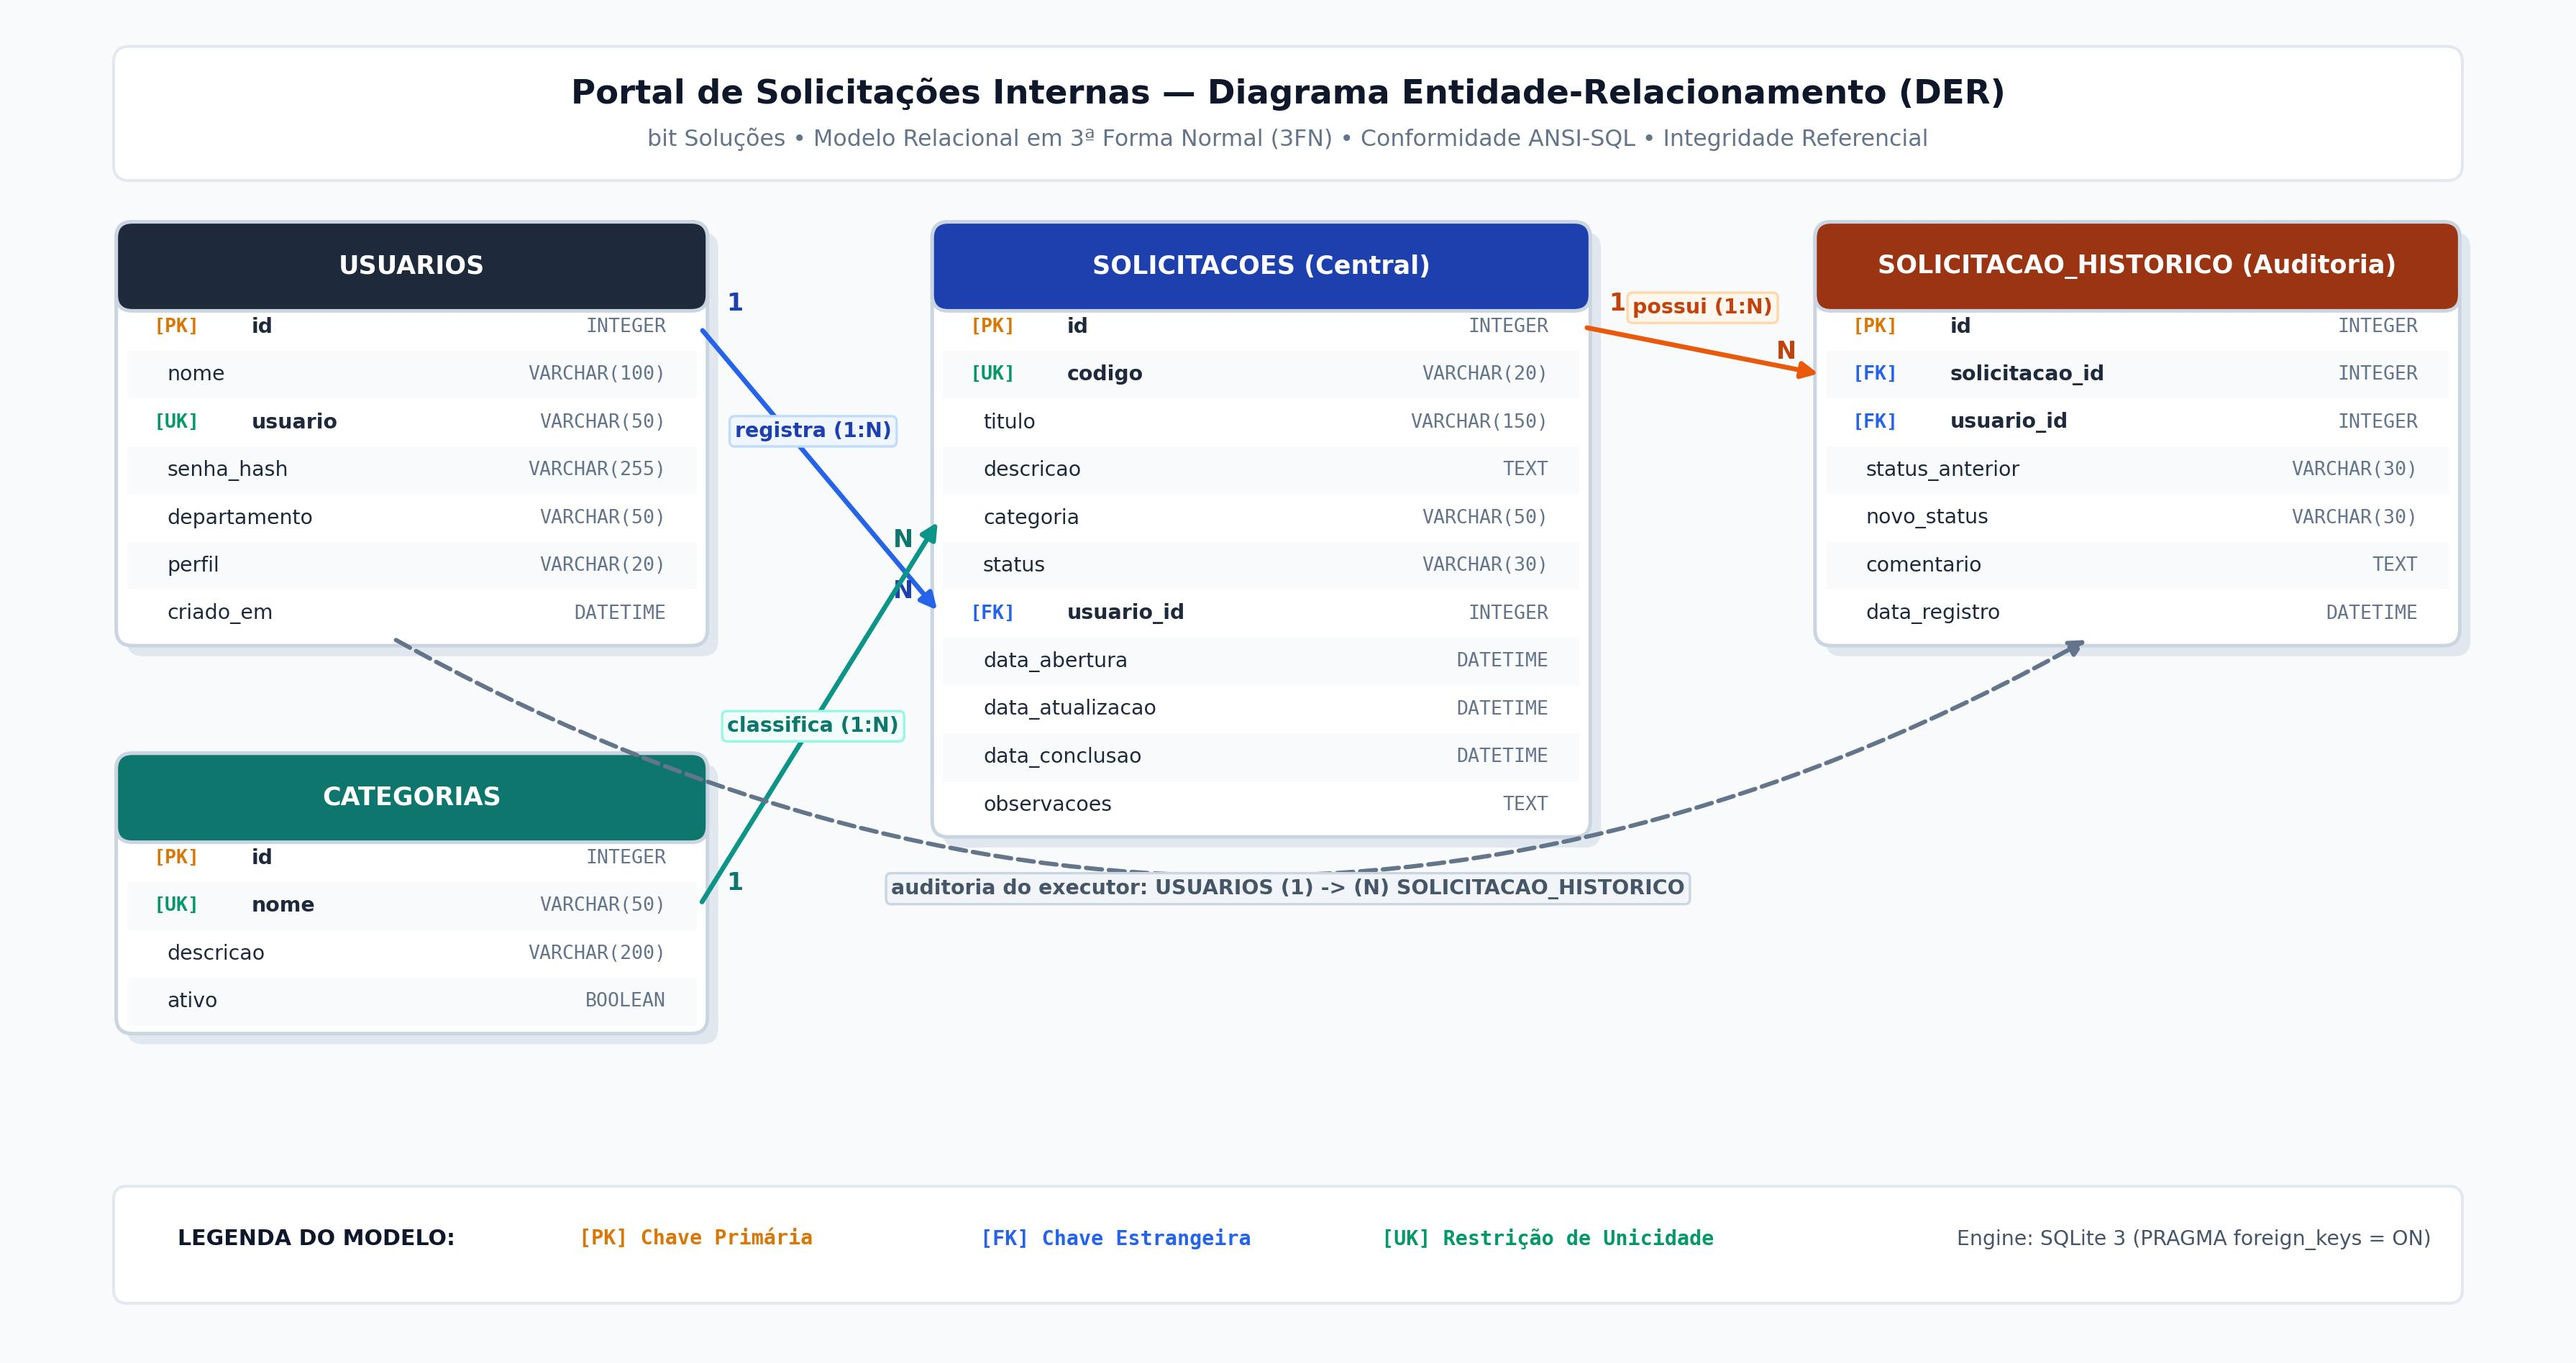
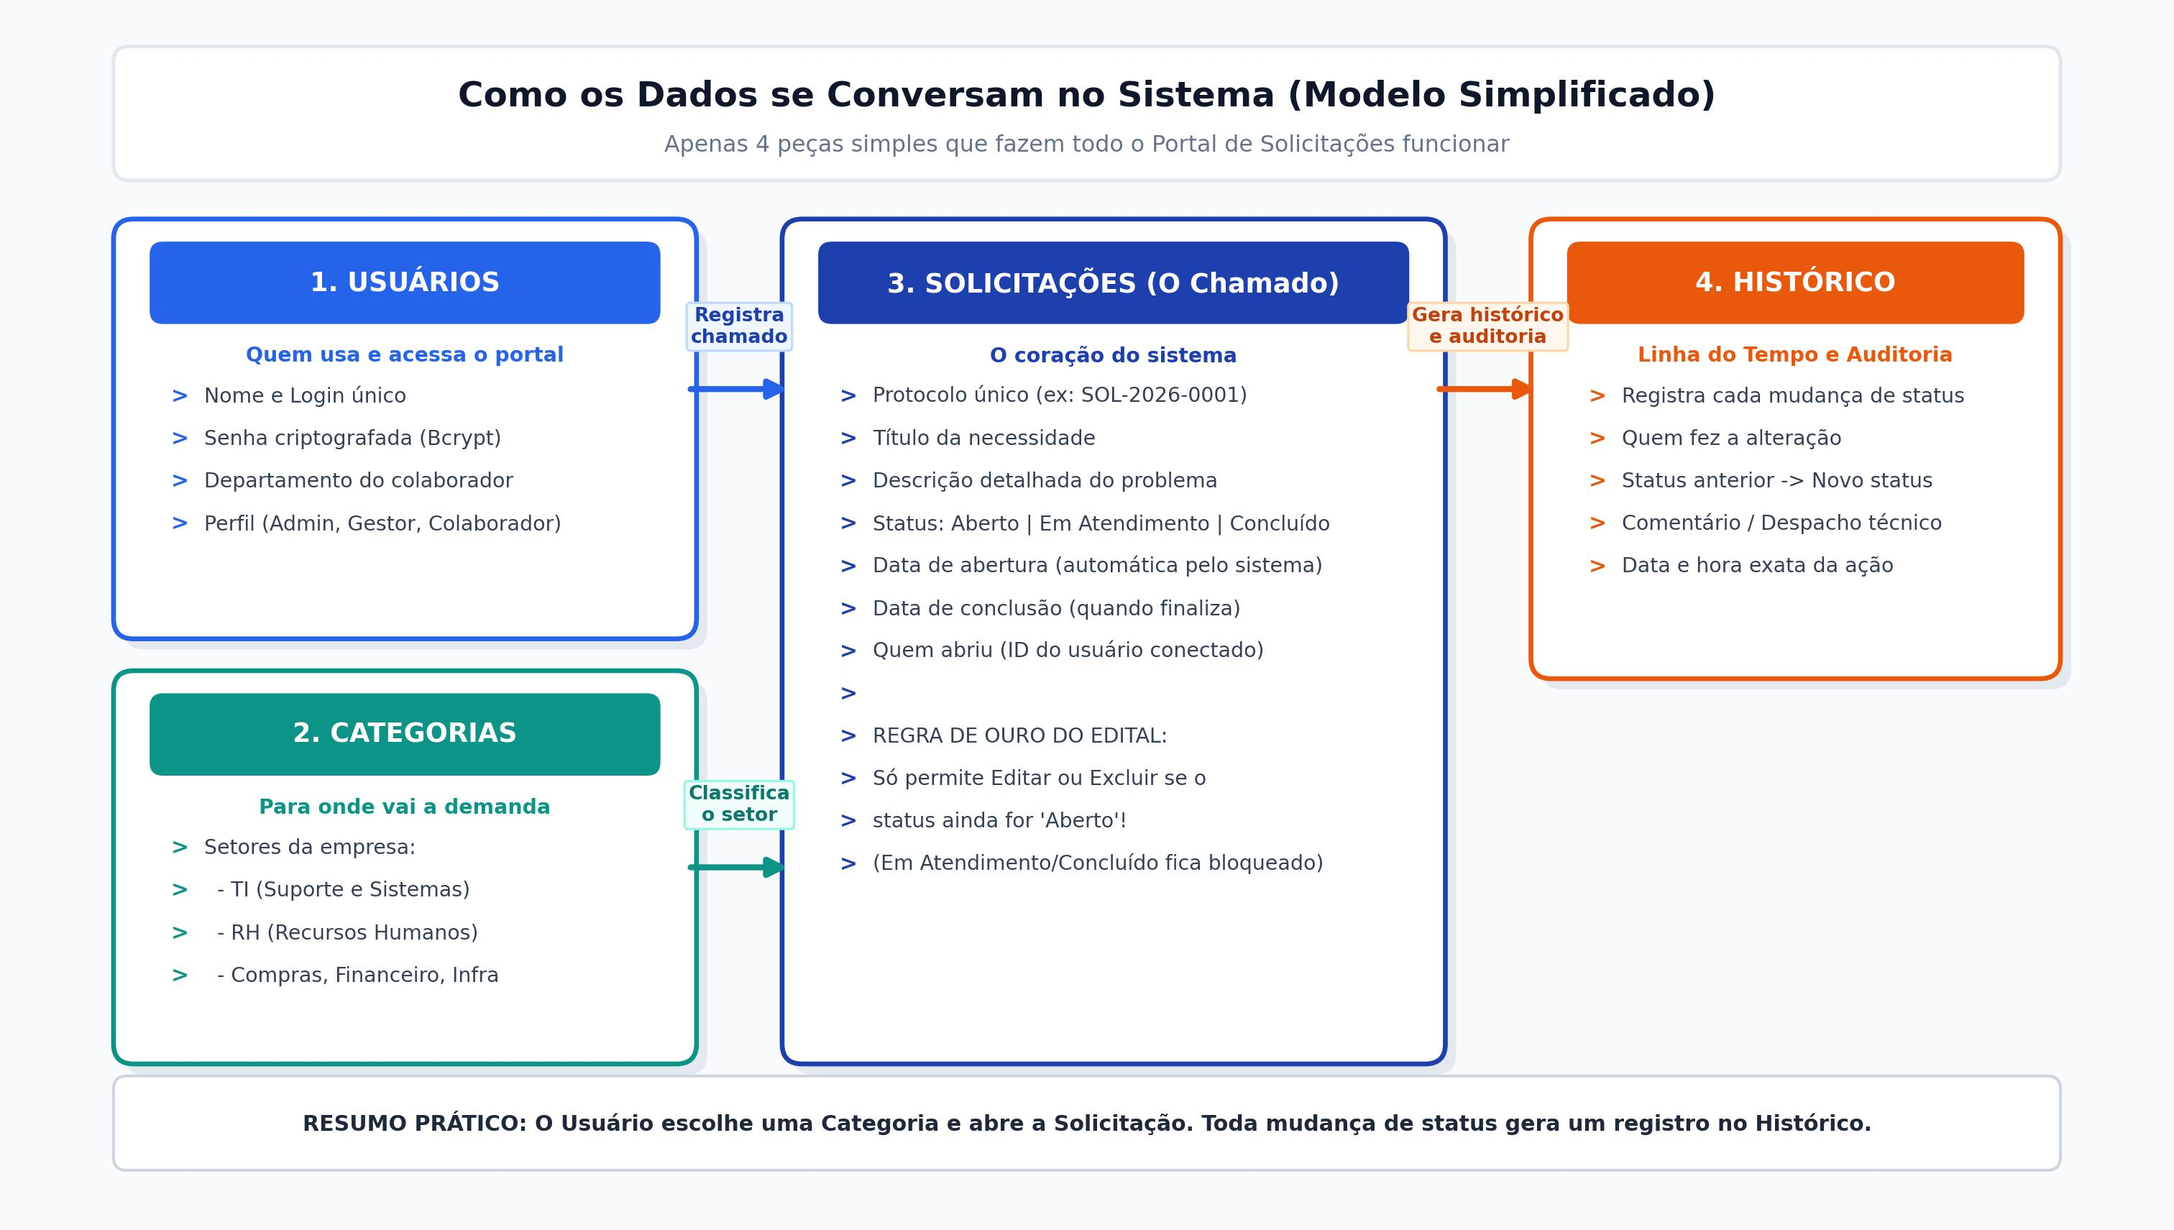
docs: use ultra-clear and human-friendly database relationship diagram

Changed region(s): [[0.0311, 0.1549, 0.9636, 0.8054], [0.0311, 0.8364, 0.9636, 0.9293], [0.2176, 0.031, 0.8082, 0.1239]]

diff --git a/docs/generate_simple_diagram.py b/docs/generate_simple_diagram.py
@@ -1,0 +1,166 @@
+import matplotlib.pyplot as plt
+import matplotlib.patches as patches
+
+def main():
+    fig, ax = plt.subplots(figsize=(16, 9), dpi=240)
+    ax.set_facecolor('#F8FAFC')
+    fig.patch.set_facecolor('#F8FAFC')
+    ax.set_xlim(0, 16)
+    ax.set_ylim(0, 9)
+    ax.axis('off')
+
+    # Top Header
+    header_box = patches.FancyBboxPatch(
+        (0.8, 7.85), 14.4, 0.85,
+        boxstyle="round,pad=0.08,rounding_size=0.12",
+        edgecolor='#E2E8F0', facecolor='#FFFFFF', linewidth=1.5, zorder=2
+    )
+    ax.add_patch(header_box)
+    ax.text(8.0, 8.4, "Como os Dados se Conversam no Sistema (Modelo Simplificado)",
+            ha='center', va='center', fontsize=14.5, fontweight='bold', color='#0F172A')
+    ax.text(8.0, 8.04, "Apenas 4 peças simples que fazem todo o Portal de Solicitações funcionar",
+            ha='center', va='center', fontsize=9.5, color='#64748B')
+
+    # Helper function for friendly cards
+    def create_card(x, y, w, h, step_num, title, subtitle, bullets, theme_color, bg_color='#FFFFFF'):
+        shadow = patches.FancyBboxPatch(
+            (x + 0.08, y - h - 0.08), w, h,
+            boxstyle="round,pad=0.08,rounding_size=0.15",
+            edgecolor='none', facecolor='#CBD5E1', alpha=0.45, zorder=1
+        )
+        ax.add_patch(shadow)
+
+        card = patches.FancyBboxPatch(
+            (x, y - h), w, h,
+            boxstyle="round,pad=0.08,rounding_size=0.15",
+            edgecolor=theme_color, facecolor=bg_color, linewidth=2.0, zorder=2
+        )
+        ax.add_patch(card)
+
+        # Header Pill
+        pill = patches.FancyBboxPatch(
+            (x + 0.25, y - 0.65), w - 0.5, 0.5,
+            boxstyle="round,pad=0.06,rounding_size=0.1",
+            edgecolor='none', facecolor=theme_color, zorder=3
+        )
+        ax.add_patch(pill)
+
+        ax.text(x + w/2.0, y - 0.40, f"{step_num}. {title}",
+                ha='center', va='center', fontsize=11, fontweight='bold', color='#FFFFFF', zorder=4)
+
+        ax.text(x + w/2.0, y - 0.95, subtitle,
+                ha='center', va='center', fontsize=8.5, fontweight='bold', color=theme_color, zorder=4)
+
+        # Bullets
+        curr_y = y - 1.30
+        for b in bullets:
+            ax.text(x + 0.35, curr_y, ">", fontsize=9, fontweight='bold', color=theme_color, zorder=4)
+            ax.text(x + 0.60, curr_y, b, fontsize=8.5, color='#334155', zorder=4)
+            curr_y -= 0.32
+
+    # CARD 1: USUÁRIOS
+    create_card(
+        x=0.8, y=7.4, w=4.2, h=3.0,
+        step_num="1", title="USUÁRIOS",
+        subtitle="Quem usa e acessa o portal",
+        bullets=[
+            "Nome e Login único",
+            "Senha criptografada (Bcrypt)",
+            "Departamento do colaborador",
+            "Perfil (Admin, Gestor, Colaborador)"
+        ],
+        theme_color="#2563EB"
+    )
+
+    # CARD 2: CATEGORIAS
+    create_card(
+        x=0.8, y=4.0, w=4.2, h=2.8,
+        step_num="2", title="CATEGORIAS",
+        subtitle="Para onde vai a demanda",
+        bullets=[
+            "Setores da empresa:",
+            "  - TI (Suporte e Sistemas)",
+            "  - RH (Recursos Humanos)",
+            "  - Compras, Financeiro, Infra"
+        ],
+        theme_color="#0D9488"
+    )
+
+    # CARD 3: SOLICITAÇÕES (CENTRAL)
+    create_card(
+        x=5.8, y=7.4, w=4.8, h=6.2,
+        step_num="3", title="SOLICITAÇÕES (O Chamado)",
+        subtitle="O coração do sistema",
+        bullets=[
+            "Protocolo único (ex: SOL-2026-0001)",
+            "Título da necessidade",
+            "Descrição detalhada do problema",
+            "Status: Aberto | Em Atendimento | Concluído",
+            "Data de abertura (automática pelo sistema)",
+            "Data de conclusão (quando finaliza)",
+            "Quem abriu (ID do usuário conectado)",
+            "",
+            "REGRA DE OURO DO EDITAL:",
+            "Só permite Editar ou Excluir se o",
+            "status ainda for 'Aberto'!",
+            "(Em Atendimento/Concluído fica bloqueado)"
+        ],
+        theme_color="#1E40AF"
+    )
+
+    # CARD 4: HISTÓRICO DE AUDITORIA
+    create_card(
+        x=11.4, y=7.4, w=3.8, h=3.3,
+        step_num="4", title="HISTÓRICO",
+        subtitle="Linha do Tempo e Auditoria",
+        bullets=[
+            "Registra cada mudança de status",
+            "Quem fez a alteração",
+            "Status anterior -> Novo status",
+            "Comentário / Despacho técnico",
+            "Data e hora exata da ação"
+        ],
+        theme_color="#EA580C"
+    )
+
+    # CONNECTING ARROWS
+
+    # Arrow 1: Usuários -> Solicitações
+    ax.annotate(
+        "", xy=(5.8, 6.2), xytext=(5.0, 6.2),
+        arrowprops=dict(arrowstyle="-|>", color="#2563EB", lw=2.5, mutation_scale=16)
+    )
+    ax.text(5.4, 6.55, "Registra\nchamado", color='#1E40AF', fontsize=8, fontweight='bold', ha='center',
+            bbox=dict(boxstyle="round,pad=0.2", facecolor="#EFF6FF", edgecolor="#BFDBFE", lw=1))
+
+    # Arrow 2: Categorias -> Solicitações
+    ax.annotate(
+        "", xy=(5.8, 2.6), xytext=(5.0, 2.6),
+        arrowprops=dict(arrowstyle="-|>", color="#0D9488", lw=2.5, mutation_scale=16)
+    )
+    ax.text(5.4, 2.95, "Classifica\no setor", color='#0F766E', fontsize=8, fontweight='bold', ha='center',
+            bbox=dict(boxstyle="round,pad=0.2", facecolor="#F0FDFA", edgecolor="#99F6E4", lw=1))
+
+    # Arrow 3: Solicitações -> Histórico
+    ax.annotate(
+        "", xy=(11.4, 6.2), xytext=(10.6, 6.2),
+        arrowprops=dict(arrowstyle="-|>", color="#EA580C", lw=2.5, mutation_scale=16)
+    )
+    ax.text(11.0, 6.55, "Gera histórico\ne auditoria", color='#C2410C', fontsize=8, fontweight='bold', ha='center',
+            bbox=dict(boxstyle="round,pad=0.2", facecolor="#FFF7ED", edgecolor="#FED7AA", lw=1))
+
+    # Bottom Summary Box
+    expl_box = patches.FancyBboxPatch(
+        (0.8, 0.4), 14.4, 0.55,
+        boxstyle="round,pad=0.08,rounding_size=0.1",
+        edgecolor='#CBD5E1', facecolor='#FFFFFF', linewidth=1.2, zorder=2
+    )
+    ax.add_patch(expl_box)
+    ax.text(8.0, 0.68, "RESUMO PRÁTICO: O Usuário escolhe uma Categoria e abre a Solicitação. Toda mudança de status gera um registro no Histórico.",
+            ha='center', va='center', fontsize=9, fontweight='bold', color='#1E293B')
+
+    plt.savefig('docs/modelo_banco_dados.jpg', bbox_inches='tight', facecolor=fig.get_facecolor(), edgecolor='none')
+    print("Clean diagram without font warnings generated successfully.")
+
+if __name__ == '__main__':
+    main()
